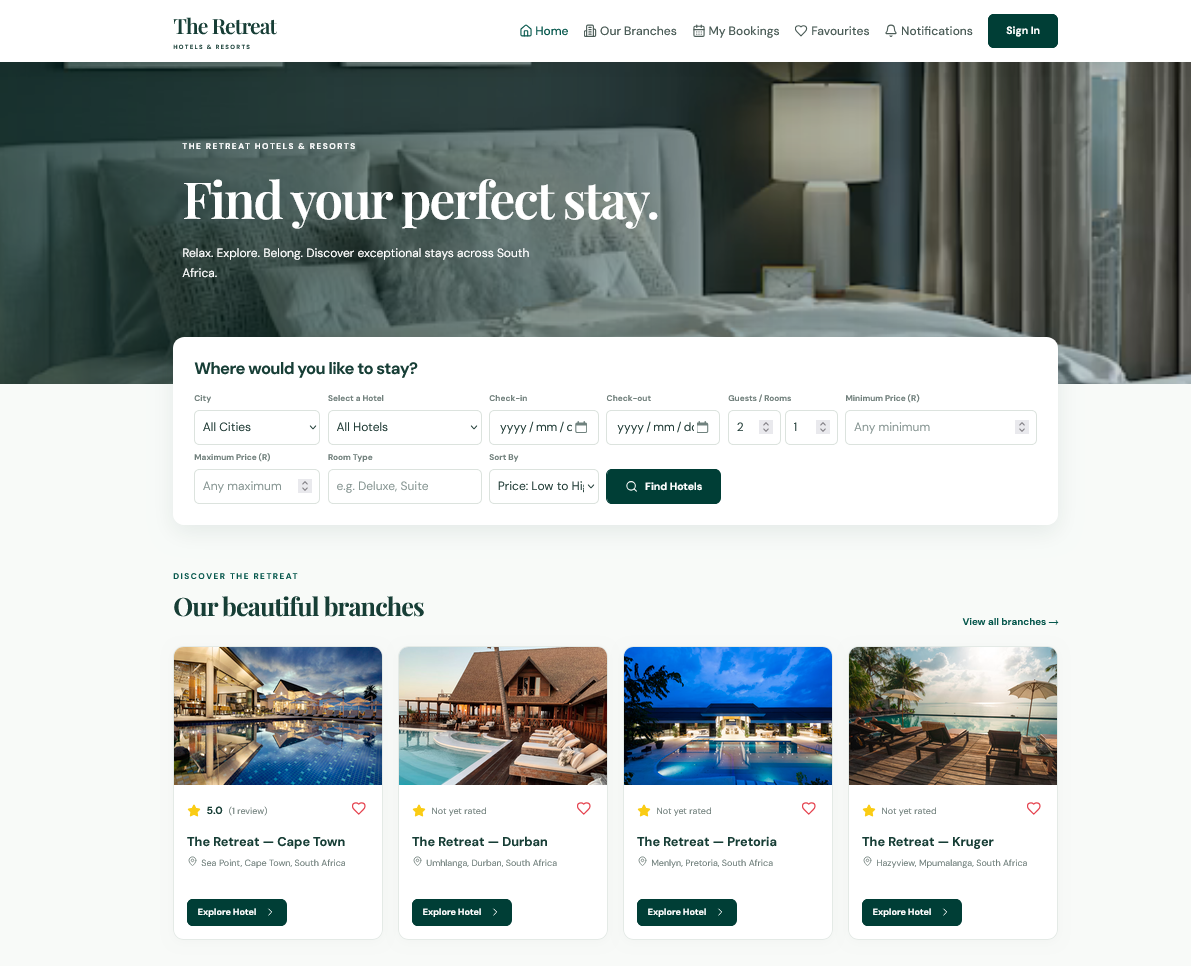
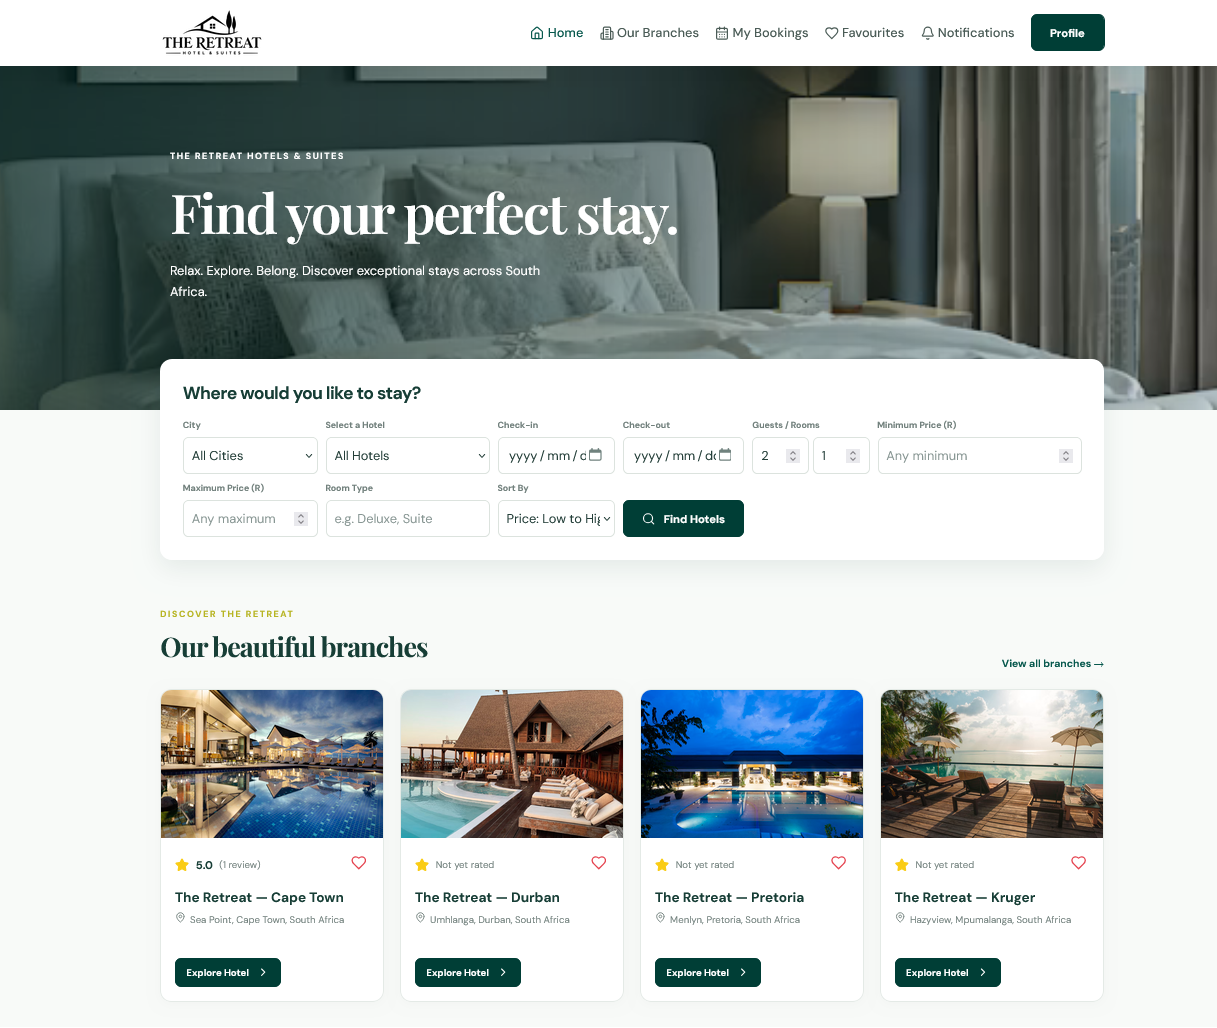
feat(ui): refine hotel branding and streamline guest profile interface

diff --git a/client/src/pages/GuestPages.tsx b/client/src/pages/GuestPages.tsx
@@ -65,7 +65,7 @@ function Wrap({ children }: { children: React.ReactNode }) {
       {children}
       <BottomNav />
       <footer className="footer">
-        The Retreat Hotels & Resorts • South Africa • © 2026
+        The Retreat Hotels & SUITES • South Africa • © 2026
       </footer>
     </div>
   );
@@ -86,7 +86,7 @@ export function Home() {
     <Wrap>
       <section className="hero">
         <div className="hero-shade">
-          <span className="eyebrow">THE RETREAT HOTELS & RESORTS</span>
+          <span className="eyebrow">THE RETREAT HOTELS & SUITES</span>
           <h1>Find your perfect stay.</h1>
           <p>Relax. Explore. Belong. Discover exceptional stays across South Africa.</p>
         </div>
@@ -647,7 +647,7 @@ export function Bookings() {
     <Wrap>
       <main className="container section">
         <PageTitle
-          title="My Bookings"
+          title="Booking History"
           subtitle="Your upcoming and previous reservations"
         />
         {!user ? (
@@ -805,6 +805,7 @@ export function Notifications() {
  * Guest Account Dashboard.
  * Displays guest information, account shortcuts and sign-out.
  */
+
 export function Profile() {
   const { user, confirm, logout } = useApp();
   const navigate = useNavigate();
@@ -819,11 +820,6 @@ export function Profile() {
   return (
     <Wrap>
       <main className="container section profile-page">
-        <PageTitle
-          title="My Profile"
-          subtitle="Manage your account and reservations"
-        />
-
         {user ? (
           <GuestProfileDashboard
             name={user.name}
@@ -831,7 +827,10 @@ export function Profile() {
             onSignOut={handleSignOut}
           />
         ) : (
-          <div className="panel" style={{ textAlign: 'center', padding: 40 }}>
+          <div
+            className="panel"
+            style={{ textAlign: 'center', padding: 40 }}
+          >
             <h2>Welcome to The Retreat</h2>
             <p className="muted">
               Sign in to manage your bookings, favourites and account.
@@ -845,6 +844,7 @@ export function Profile() {
     </Wrap>
   );
 }
+
 
 
 /**
@@ -905,7 +905,7 @@ const [error, setError] = useState('');
       <main className="auth-page">
         <form className="auth-card" onSubmit={submit}>
           <h1>The Retreat</h1>
-          <small>HOTELS & RESORTS</small>
+          <small>HOTELS & SUITES</small>
           <h2>{signup ? 'Create Account' : 'Welcome Back'}</h2>
           <div className="auth-tabs">
             <button

diff --git a/client/src/styles.css b/client/src/styles.css
@@ -30,6 +30,7 @@
   --color-admin-hover: #0b6355;
   --color-admin-link: #d6e7e0;
   --color-input-border: #dce4df;
+  --color-small-brand: #aca900db;
 
   /* Status colours */
   --color-success: #137247;
@@ -379,17 +380,14 @@ p {
 }
 
 .eyebrow.green {
-  color: var(--teal);
+  color: var(--color-small-brand);
 }
 
 .brand {
-  display: inline-flex;
-  flex-direction: column;
-  align-items: flex-start;
-  justify-content: flex-start;
-  text-align: left;
-  line-height: 1;
-  white-space: nowrap;
+  width: 130px;
+  height: auto;
+  object-fit: contain;
+  display: block;
 }
 
 
@@ -404,6 +402,7 @@ p {
   letter-spacing: 0.22em;
   margin-top: 7px;
   font-weight: 700;
+  color: var(--color-small-brand);
 }
 
 .guest-nav {
@@ -1856,7 +1855,7 @@ p {
   width: 242px;
   min-width: 242px;
   height: 100dvh;
-  background: var(--green);
+  background: var(--teal);
   color: white;
   display: flex;
   flex-direction: column;

diff --git a/client/index.html b/client/index.html
@@ -4,7 +4,7 @@
     <meta charset="UTF-8" />
     <meta name="viewport" content="width=device-width, initial-scale=1.0" />
     <meta name="theme-color" content="#003e36" />
-    <title>The Retreat | Hotels & Resorts</title>
+    <title>The Retreat | Hotels & SUITES</title>
     <link rel="icon" type="image/png" href="/the-retreat-favicon.png" />
     <link rel="preconnect" href="https://images.unsplash.com" />
   </head>

diff --git a/client/src/components/shared/Shared.tsx b/client/src/components/shared/Shared.tsx
@@ -20,12 +20,12 @@ import {
   ChevronRight,
 } from 'lucide-react';
 import { useApp } from '../../context/AppContext';
+import RetreatLogo from '../../../assets/the-retreat-logo.png';
 
 export function Brand() {
   return (
     <Link className="brand" to="/">
-      <span>The Retreat</span>
-      <small>HOTELS & RESORTS</small>
+      <img src={RetreatLogo} alt="The Retreat Hotel" />
     </Link>
   );
 }

diff --git a/client/src/pages/GoogleCallback.tsx b/client/src/pages/GoogleCallback.tsx
@@ -59,7 +59,7 @@ export default function GoogleCallback() {
     <main className="auth-page">
       <div className="auth-card">
         <h1>The Retreat</h1>
-        <small>HOTELS & RESORTS</small>
+        <small>HOTELS & SUITES</small>
 
         {error ? (
           <>

diff --git a/client/src/pages/ResetPassword.tsx b/client/src/pages/ResetPassword.tsx
@@ -62,7 +62,7 @@ export function ResetPassword() {
     <main className="auth-page">
       <div className="auth-card">
         <h1>The Retreat</h1>
-        <small>HOTELS & RESORTS</small>
+        <small>HOTELS & SUITES</small>
 
         {success ? (
           <>

diff --git a/README.md b/README.md
@@ -1,6 +1,6 @@
-# The Retreat Hotels & Resorts
+# The Retreat Hotels & SUITES
 
-The Retreat Hotels & Resorts** is a full-stack hotel booking application built with React, TypeScript, Node.js, and Express. It features a responsive guest website, an admin dashboard, Google OAuth authentication, secure Paystack payments, and hotel reservation management. The application uses Prisma ORM with PostgreSQL hosted on Neon for persistent data storage, with the frontend deployed on Vercel and the backend on Render.
+The Retreat Hotels & Suites is a full-stack hotel booking application built with React, TypeScript, Node.js, and Express. It features a responsive guest website, an admin dashboard, Google OAuth authentication, secure Paystack payments, and hotel reservation management. The application uses Prisma ORM with PostgreSQL hosted on Neon for persistent data storage, with the frontend deployed on Vercel and the backend on Render.
 
 **Live application:** https://the-retreat-hotel.vercel.app  
 **API health check:** https://the-retreat-api.onrender.com/api/health
